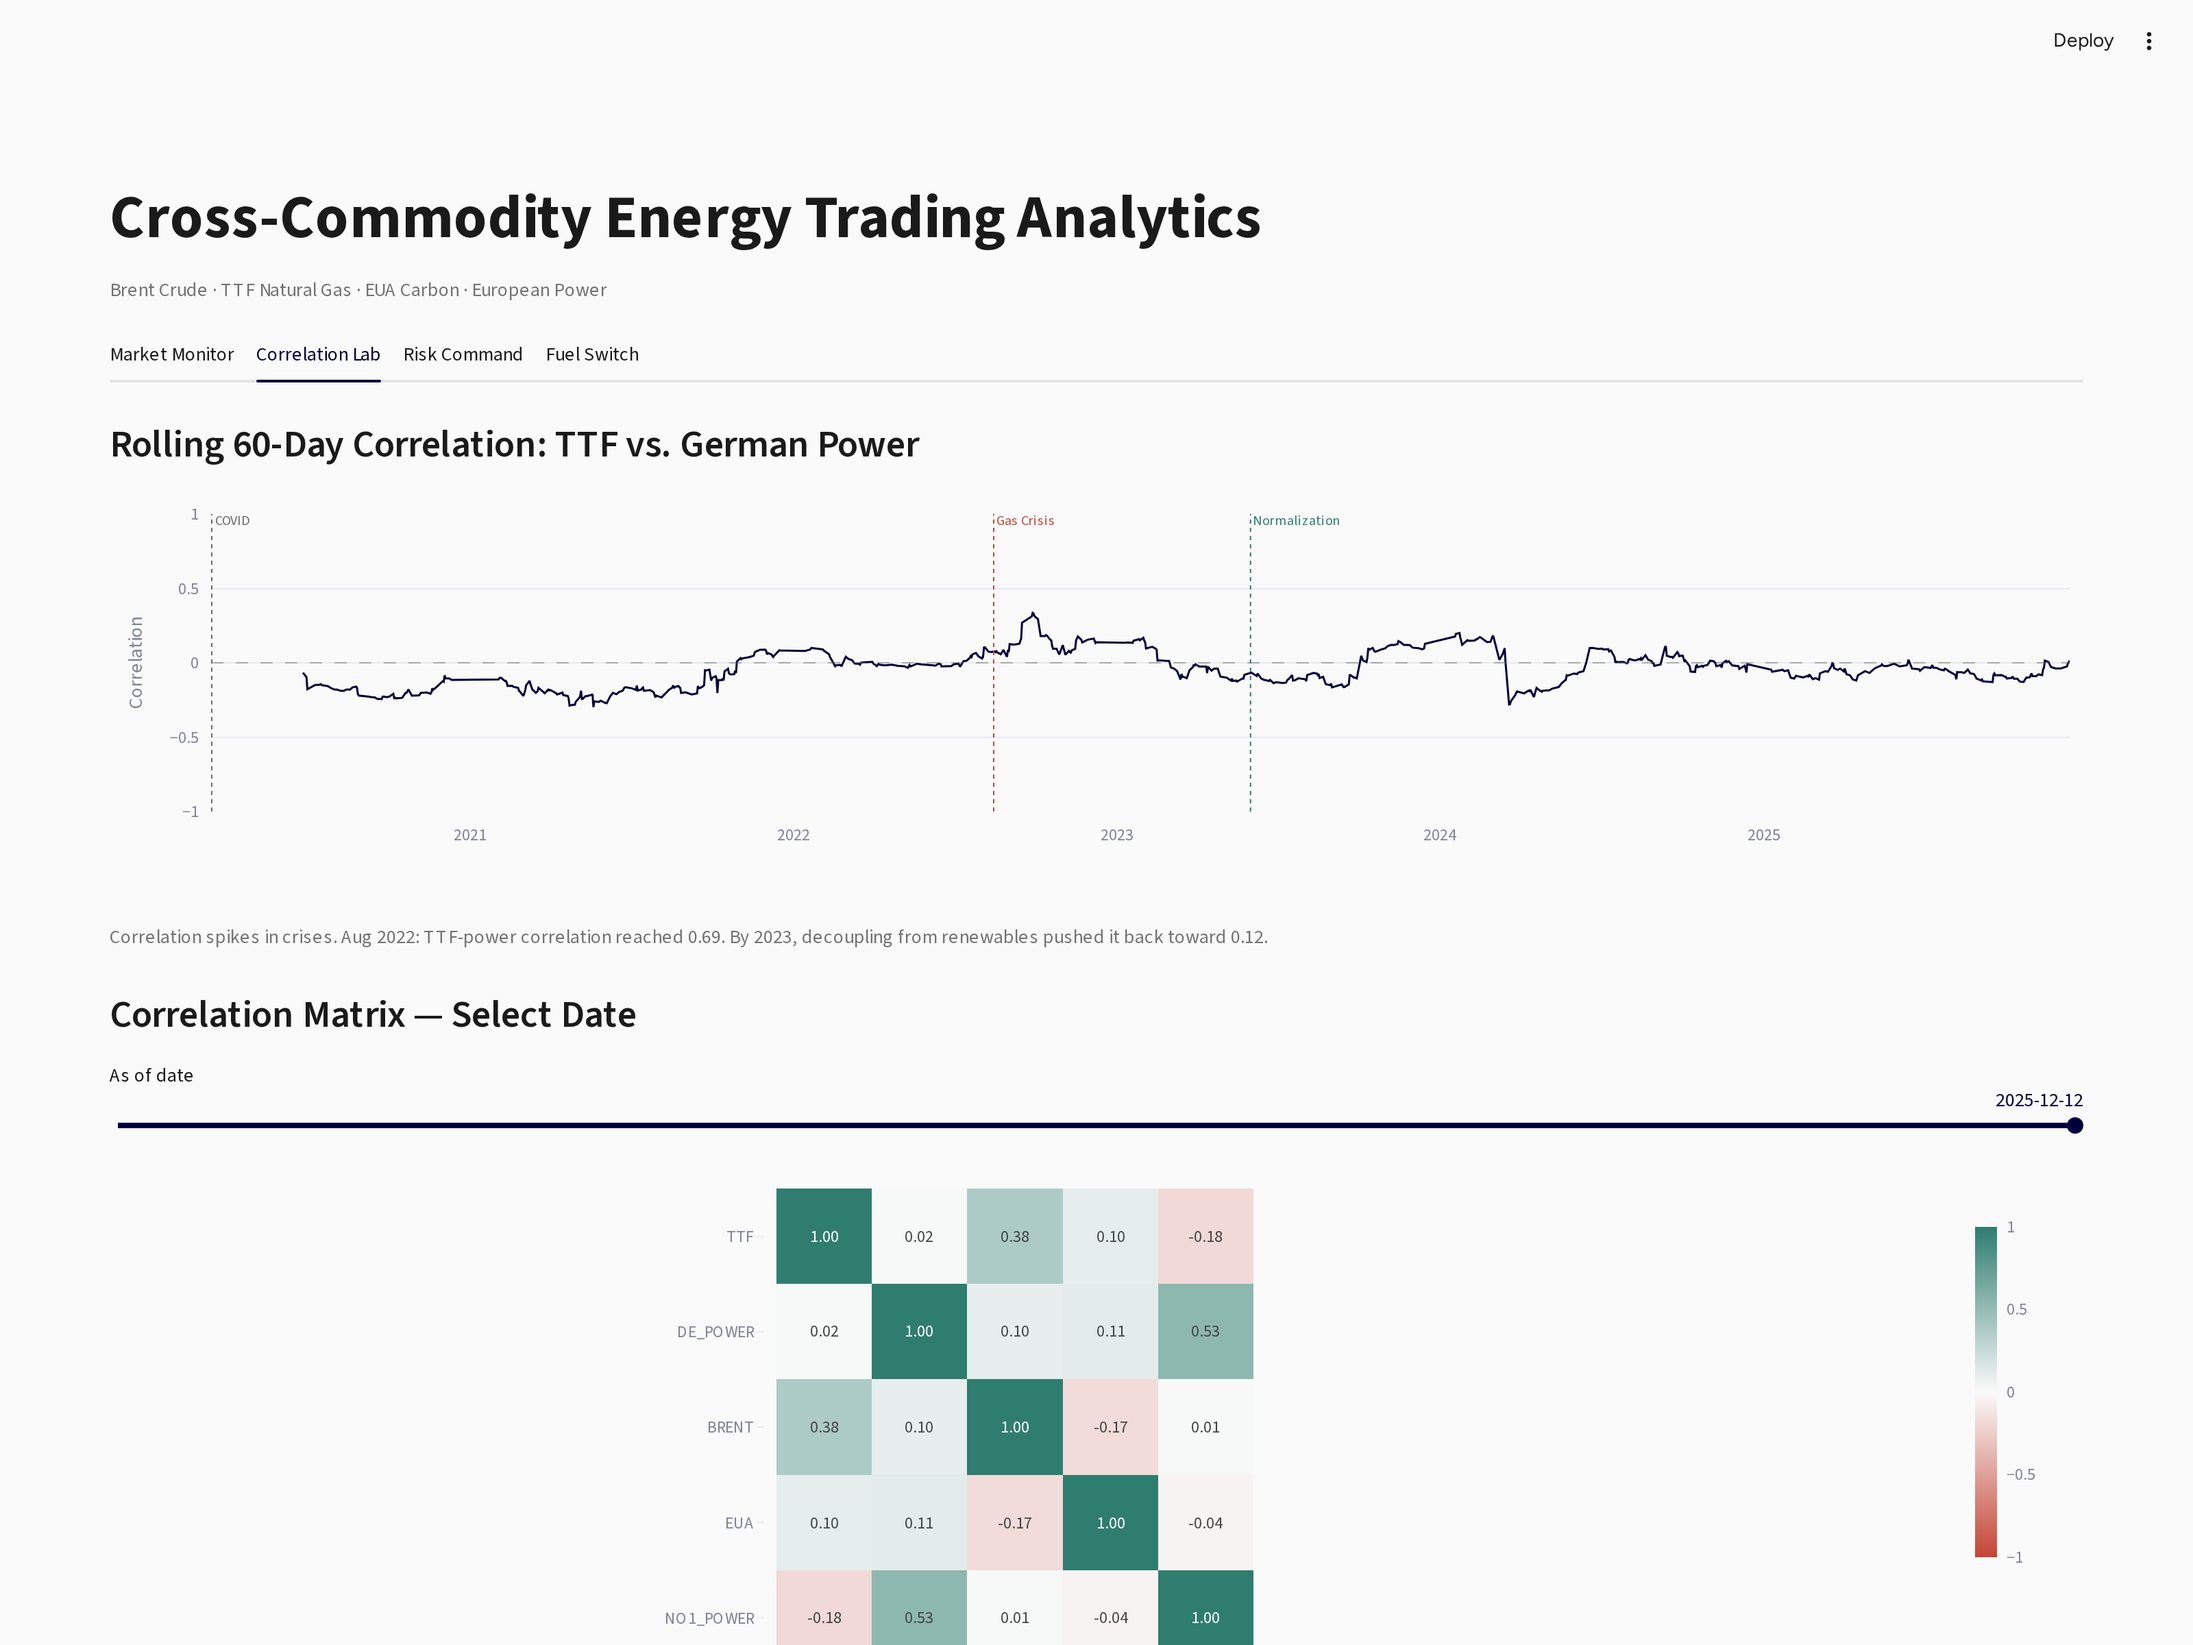
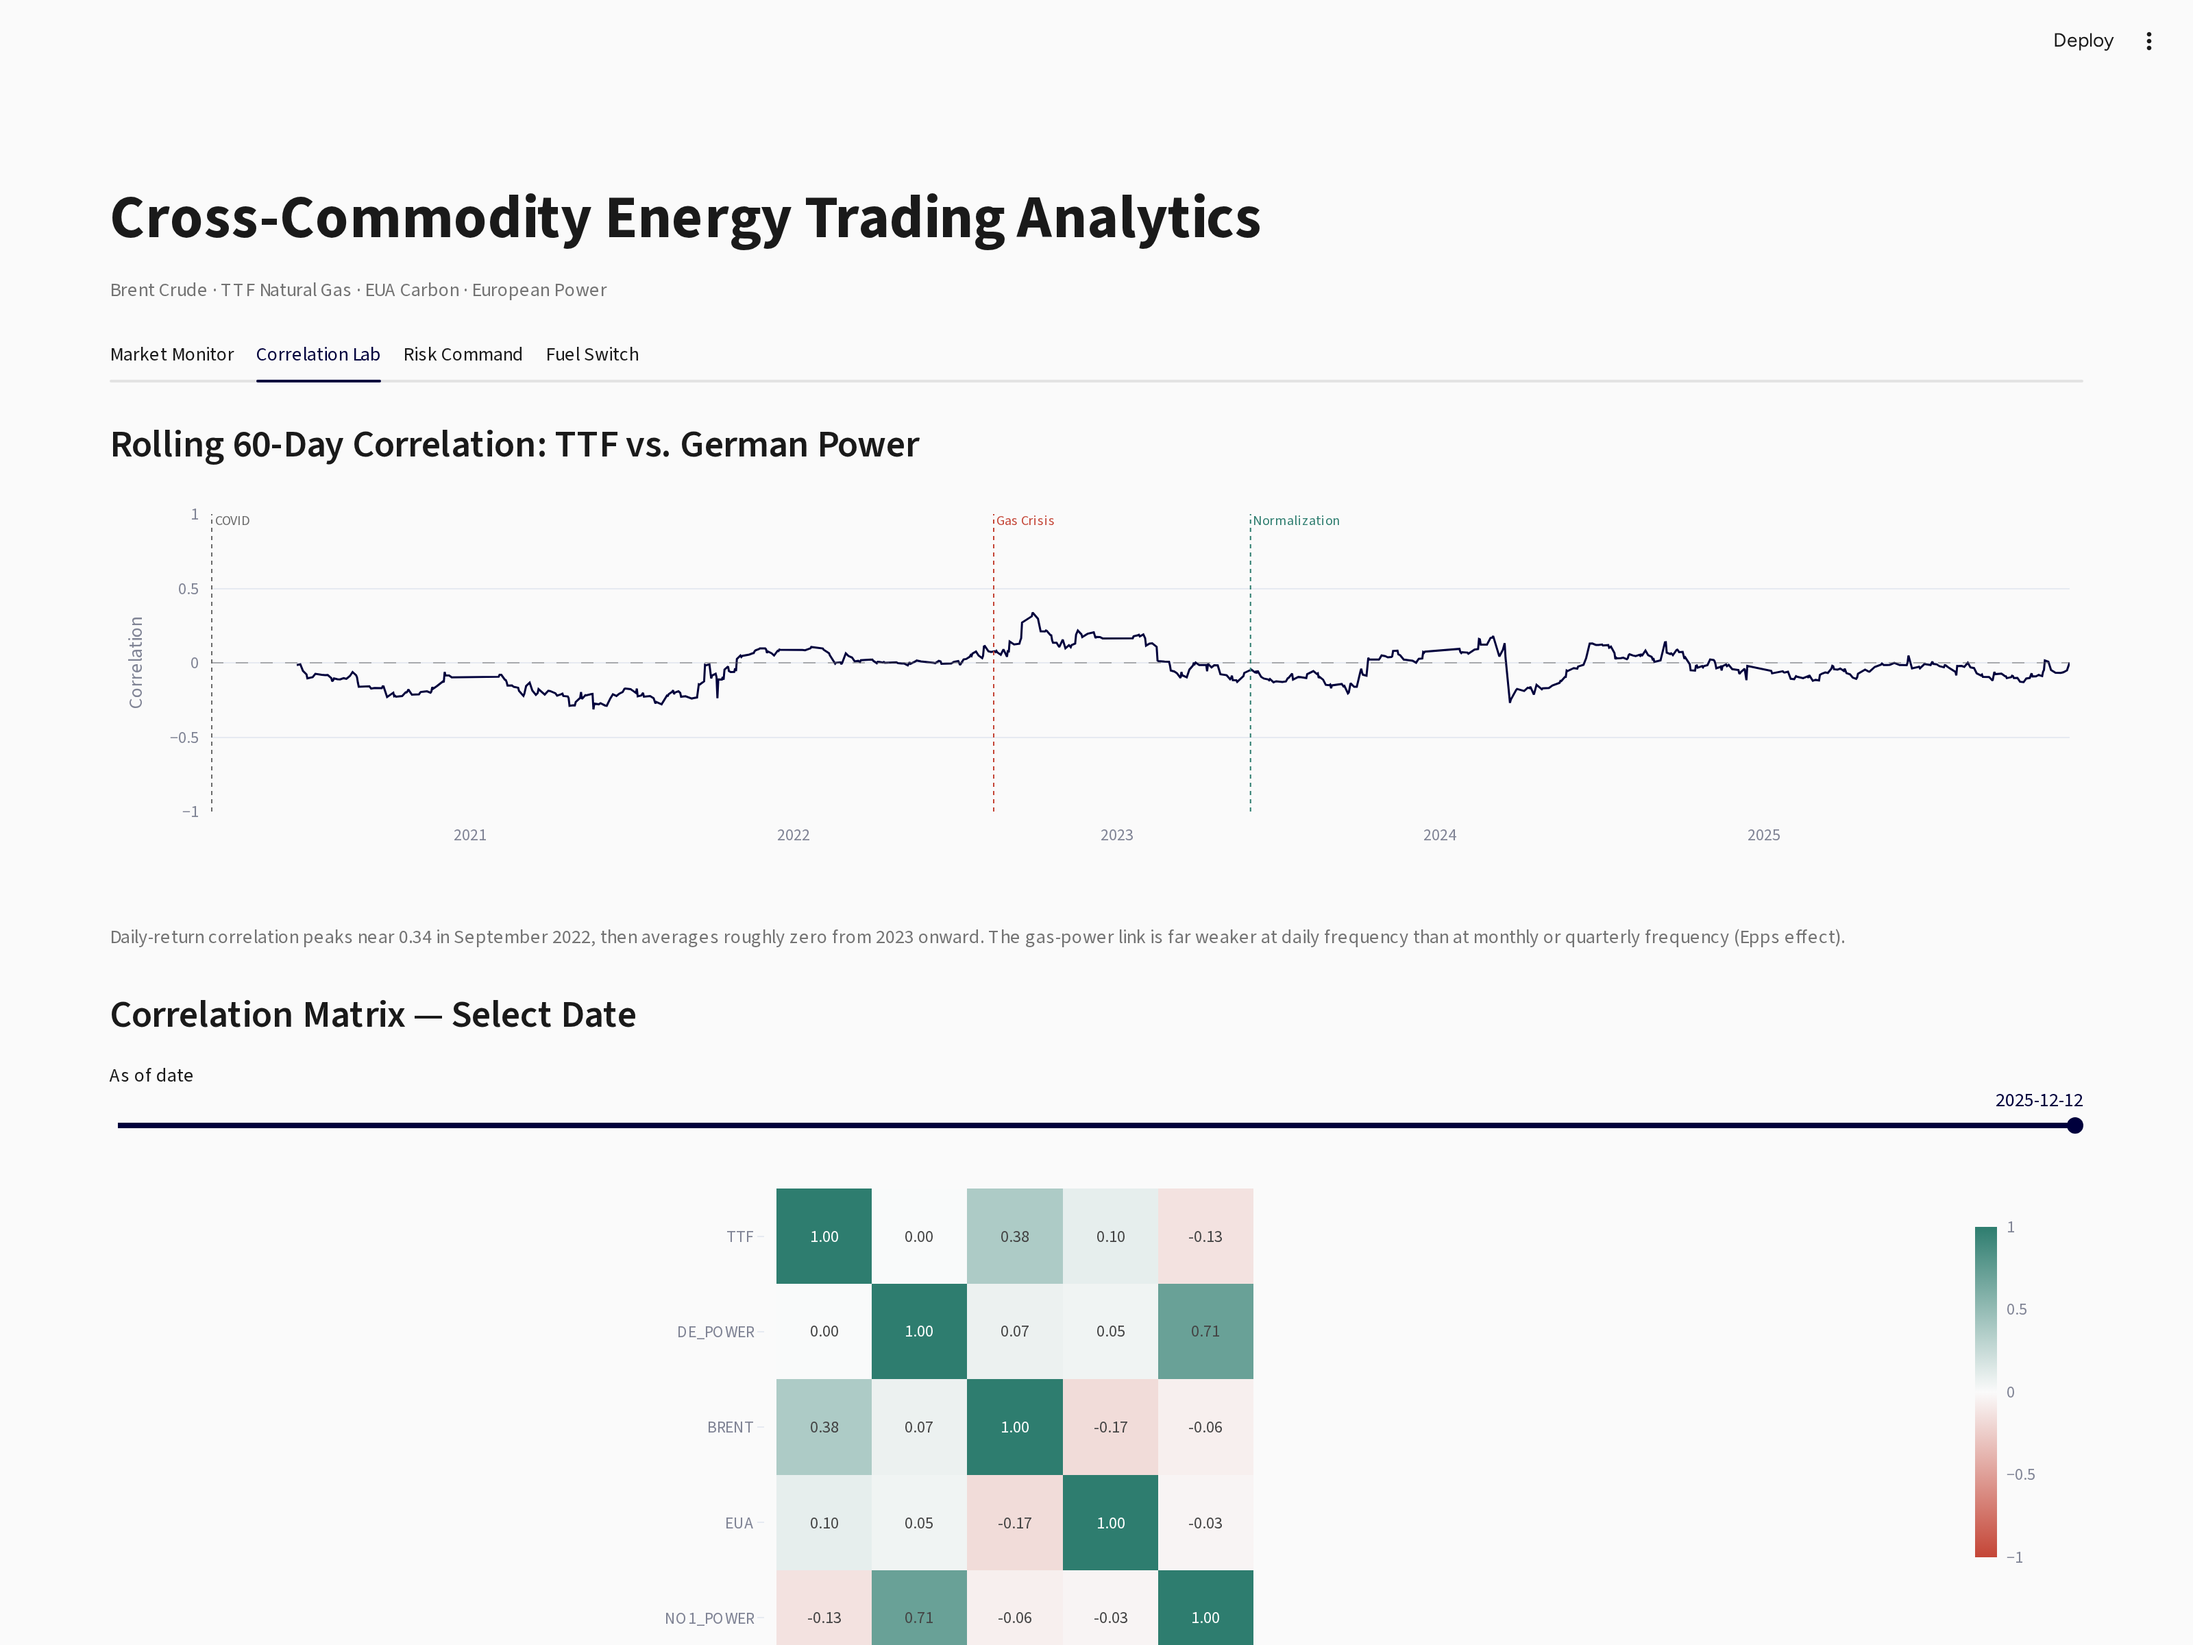
fix(dashboard): correct false claims in correlation tab

diff --git a/src/energy_cross_commodity/dashboard/tab_correlation.py b/src/energy_cross_commodity/dashboard/tab_correlation.py
@@ -6,10 +6,12 @@ import plotly.graph_objects as go
 
 import streamlit as st
 import duckdb
-from omegaconf import DictConfig
+from omegaconf import DictConfig, OmegaConf
 from scipy import stats
 import pandas as pd
 from energy_cross_commodity.risk.correlation import compute_rolling_correlation
+from energy_cross_commodity.risk.copula import fit_t_copula
+from energy_cross_commodity.risk.returns import compute_log_returns
 
 
 def render(conn: duckdb.DuckDBPyConnection, cfg: DictConfig) -> None:
@@ -21,7 +23,10 @@ def render(conn: duckdb.DuckDBPyConnection, cfg: DictConfig) -> None:
     """).df()
 
     pivot = prices.pivot(index="date", columns="commodity_key", values="price_native")
-    returns = np.log(pivot / pivot.shift(1)).dropna()
+    # Displaced log returns: German power clears negative, where a plain log is undefined
+    # and would silently drop the whole row across every commodity.
+    displacements = OmegaConf.to_container(cfg.risk.price_displacement_eur, resolve=True)
+    returns = compute_log_returns(pivot, displacements).dropna()
     commodities = returns.columns.tolist()
 
     # --- Rolling Correlation Time Series ---
@@ -58,7 +63,7 @@ def render(conn: duckdb.DuckDBPyConnection, cfg: DictConfig) -> None:
             yaxis=dict(range=[-1, 1]),
         )
         st.plotly_chart(fig_ts, width="stretch")
-        st.caption("Correlation spikes in crises. Aug 2022: TTF-power correlation reached 0.69. By 2023, decoupling from renewables pushed it back toward 0.12.")
+        st.caption("Daily-return correlation peaks near 0.34 in September 2022, then averages roughly zero from 2023 onward. The gas-power link is far weaker at daily frequency than at monthly or quarterly frequency (Epps effect).")
 
     # --- Interactive Date Picker + Correlation Matrix ---
     st.subheader("Correlation Matrix — Select Date")
@@ -101,9 +106,13 @@ def render(conn: duckdb.DuckDBPyConnection, cfg: DictConfig) -> None:
             name="Daily returns",
         ))
         rho = np.corrcoef(ttf_std, power_std)[0, 1]
+        # Degrees of freedom are estimated, not assumed — a hardcoded nu would draw an
+        # ellipse for a model the panel was never fitted to.
+        pair_fit = fit_t_copula(returns[["TTF", "DE_POWER"]])
+        nu = pair_fit.df
         theta = np.linspace(0, 2*np.pi, 200)
         ex, ey = np.cos(theta), np.sin(theta)
-        scale_t = np.sqrt(stats.f.ppf(0.95, 2, 5) * 2)
+        scale_t = np.sqrt(stats.f.ppf(0.95, 2, nu) * 2)
         fig_tail.add_trace(go.Scatter(
             x=ex * scale_t, y=ey * scale_t * np.sqrt(1 - rho**2) + rho * ex * scale_t,
             mode="lines", line=dict(color="#00003C", width=2, dash="solid"),
@@ -120,7 +129,11 @@ def render(conn: duckdb.DuckDBPyConnection, cfg: DictConfig) -> None:
             xaxis_title="TTF (standardized)", yaxis_title="German Power (standardized)",
         )
         st.plotly_chart(fig_tail, width="stretch")
-        st.caption(f"Correlation: {rho:.3f}. The t-copula ellipse (solid navy) captures tail dependence the Gaussian ellipse (dashed red) misses.")
+        st.caption(
+            f"Correlation {rho:.3f}, fitted degrees of freedom ν = {nu:.1f}. At this ν the "
+            "t-copula ellipse (solid navy) sits almost on top of the Gaussian one (dashed red) — "
+            "this pair shows little tail dependence at daily frequency. The gap widens as ν falls."
+        )
     st.subheader("Correlation Regime Detection")
     if len(avail) >= 3:
         frob = np.zeros(corr_cube.shape[2])
@@ -157,36 +170,59 @@ def render(conn: duckdb.DuckDBPyConnection, cfg: DictConfig) -> None:
         rc1.metric("Current Regime", current_regime)
         rc2.metric("Frobenius Norm", f"{frob[-1]:.2f}")
         st.caption(
-            "Frobenius norm of the N×N correlation matrix. "
-            "HIGH regimes coincide with crises — diversification fails when you need it most. "
-            f"Aug 2022 classified as HIGH (norm > {hi:.1f})."
+            f"Frobenius norm of the {len(avail)}×{len(avail)} correlation matrix. The floor is "
+            f"√{len(avail)} ≈ {np.sqrt(len(avail)):.2f} (zero correlation everywhere) and the ceiling is "
+            f"{len(avail)} (everything moves as one). The series stays near the floor, so the "
+            f"LOW/NORMAL/HIGH split at {lo:.2f}/{hi:.2f} separates weak states from slightly less "
+            "weak ones, not calm markets from crises."
         )
 
     with st.expander("Methodology & Interpretation"):
         st.markdown("""
 **Rolling correlation time series** tracks the 60-day Pearson correlation between TTF
-natural gas and German day-ahead power. During normal market conditions (2019, 2023-2024),
-the correlation is moderate (ρ ≈ 0.3–0.4). During the August 2022 gas crisis, it rose
-to 0.69 as gas prices dominated all other cost factors in the merit order. The 2023
-decoupling reflects increased renewable penetration structurally reducing the gas-to-power
-pass-through — a key energy transition dynamic.
+natural gas and German day-ahead power, computed on displaced log returns (German prices
+clear negative, where a plain log is undefined). The series peaks near 0.34 in September
+2022, when gas dominated the merit order, and averages close to zero from 2023 onward.
+
+Read the level with care: this is a *daily-return* correlation, and it is much lower than
+the gas-power relationship measured on prices or at lower frequency. Correlation estimated
+from short-horizon returns is biased toward zero when the two series do not trade or settle
+in step — the Epps effect. Day-ahead power is fixed once daily against weather and renewable
+output, while gas trades continuously, so a large share of daily power variance is simply
+not a gas story. Aggregating returns to monthly or quarterly recovers a far stronger link.
+The near-zero daily figure is therefore a statement about measurement frequency, not
+evidence that gas has stopped setting the marginal price.
 
 **Correlation matrix** shows the N×N pairwise correlations for the selected 60-day window.
-The interactive date picker lets you explore how the correlation structure evolved.
-Slide to August 2022 to see the matrix go uniformly dark red (correlations → 1.0) as all
-commodities moved together during the crisis. Slide to late 2023 to see the gas-power
-cell return to blue as the markets decoupled.
+The interactive date picker lets you explore how the correlation structure evolved. The
+persistently strong cell is DE_POWER–NO1_POWER, two coupled power markets; the commodity
+pairs stay weak throughout. Even at the height of the August 2022 gas crisis the off-diagonal
+entries only span roughly −0.1 to 0.3 — daily returns did not collapse onto a single factor,
+which is the same frequency effect described above rather than evidence of diversification.
 
 **Tail dependence plot** compares the bivariate t-copula 95% contour (solid navy) against
-the Gaussian 95% contour (dashed red). Both use the same linear correlation ρ, but the
-t-copula accounts for heavy tails (degrees of freedom ν ≈ 5). The t-copula ellipse is
-wider in the joint-tail regions, capturing the empirical observation that extreme moves
-in TTF are accompanied by extreme moves in German power. A Gaussian model assigns
-near-zero probability to these joint-tail events.
+the Gaussian 95% contour (dashed red). Both use the same linear correlation ρ; the t-copula
+adds heavy tails through its degrees of freedom ν, which is estimated from the data rather
+than assumed. Coefficient of tail dependence λ = 2·t_{ν+1}(−√((ν+1)(1−ρ)/(1+ρ))) tends to
+zero as ν grows, so the two contours converge when the fitted ν is large.
+
+For TTF against German power the fit lands near ν ≈ 19 with ρ close to zero, which implies
+λ ≈ 0 — the ellipses nearly coincide and there is no joint-tail clustering to speak of at
+daily frequency. Counting empirical joint exceedances agrees: at the 10% level the pair
+breaches jointly on the downside slightly more often than independence predicts and on the
+upside slightly less. The t-copula still earns its place in the portfolio VaR, where the
+full nine-series panel fits a heavier ν ≈ 13 and the two power markets reach λ ≈ 0.27 —
+but that dependence lives in other pairs, not this one.
 
 **Correlation regime detection** computes the Frobenius norm (√Σᵢⱼ ρᵢⱼ²) of the rolling
 correlation matrix and classifies each time point into LOW (<33rd percentile), NORMAL,
-or HIGH (>67th percentile) regimes. HIGH regimes are crisis periods where all correlations
-converge toward 1.0 — diversification fails precisely when it is most needed. The
-August 2022 gas crisis is correctly classified as HIGH.
+or HIGH (>67th percentile) regimes. The textbook motivation is that correlations converge
+toward 1.0 in a crisis, so diversification fails precisely when it is most needed.
+
+This sample does not show that pattern, and the diagnostic is kept here because the negative
+result is the finding. The norm is bounded below by √N (zero correlation everywhere) and above
+by N; it stays close to the lower bound throughout, so the percentile thresholds end up only
+a few hundredths apart and the labels partition estimation noise rather than market states.
+August 2022 classifies as LOW, not HIGH. A crisis-correlation study on this panel needs
+lower-frequency returns, where the cross-commodity link is actually measurable.
 """)
